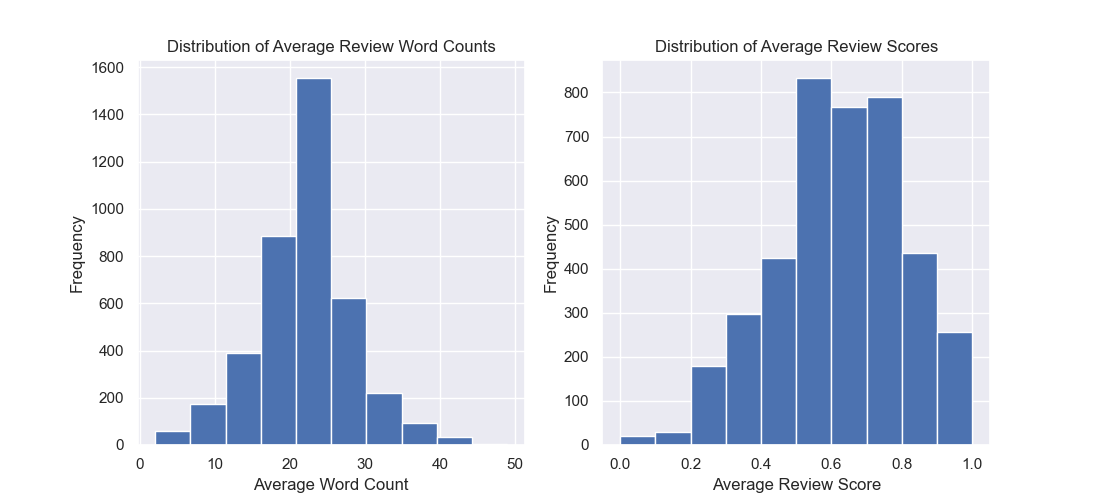
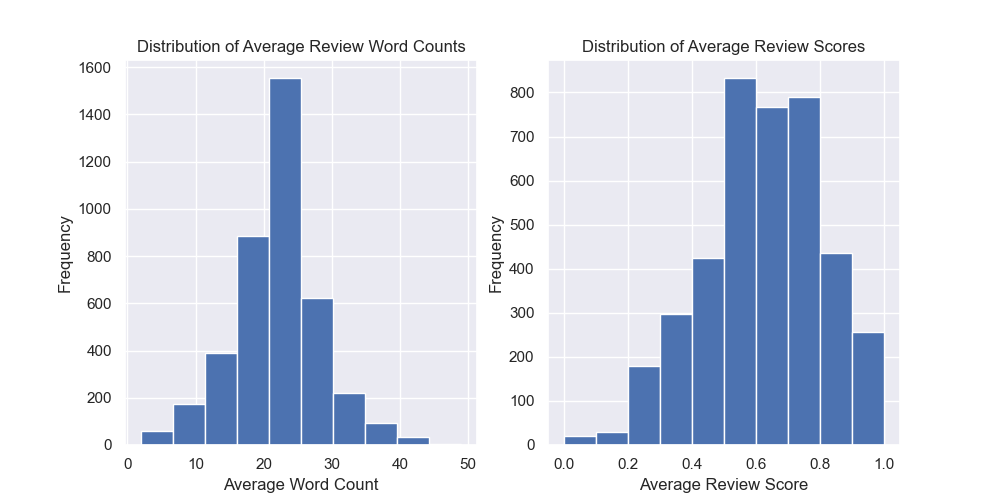
edit to plot

diff --git a/main.py b/main.py
@@ -374,7 +374,7 @@ def word_count_vs_review_score(movie_reviews: pd.DataFrame) -> None:
     plt.savefig('ave_word_count_vs_score.png', bbox_inches='tight')
 
     # create a figure size for distribution visualization
-    plt.figure(figsize=[11, 5])
+    plt.figure(figsize=[10, 5])
 
     # distribution of word counts
     plt.subplot(1, 2, 1)
@@ -462,8 +462,8 @@ def main():
 
     plot_top_20_movies(movie_reviews)
     plot_bottom_20_movies(movie_reviews)
-    wordcloud_positive(movie_reviews)
-    wordcloud_negative(movie_reviews)
+    # wordcloud_positive(movie_reviews)
+    # wordcloud_negative(movie_reviews)
     word_count_vs_review_score(movie_reviews)
     print('Accuracy:')
     print(fit_and_predict(movie_reviews))
